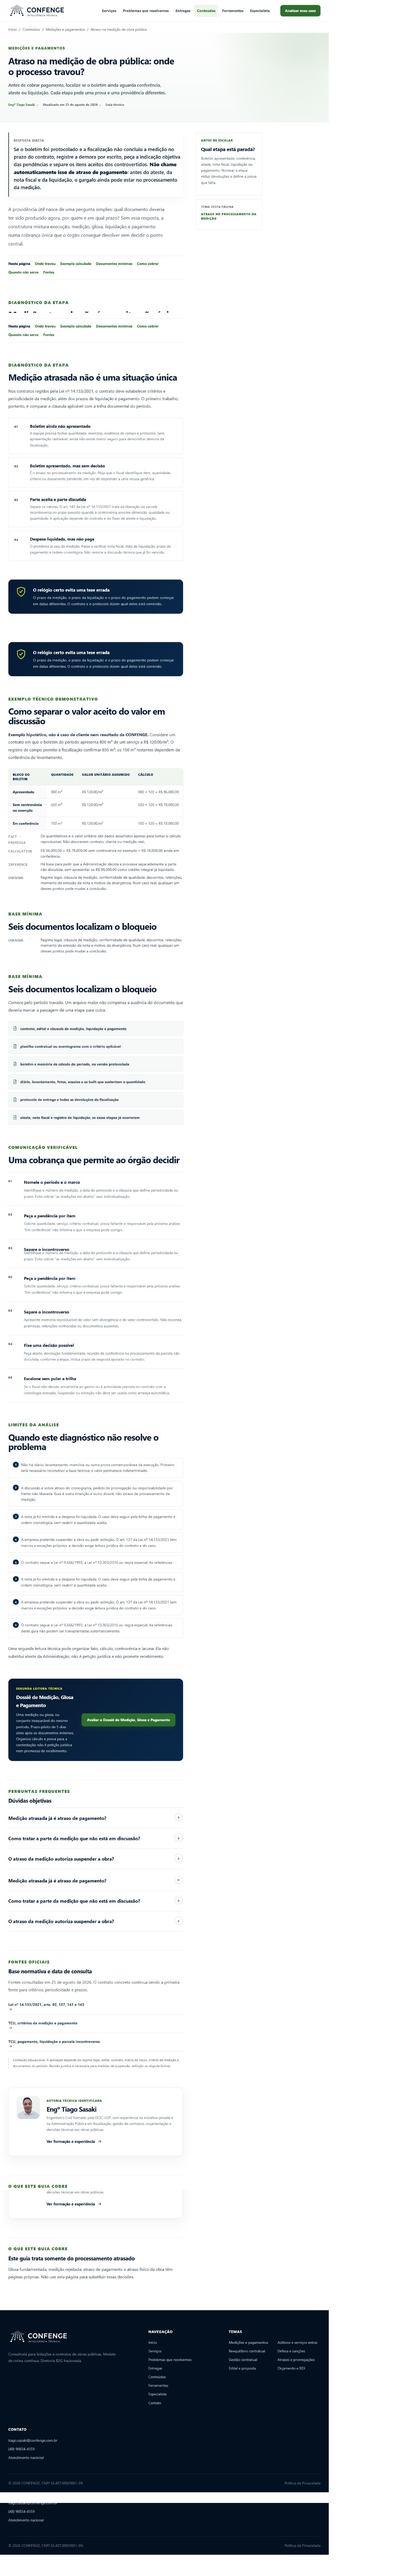
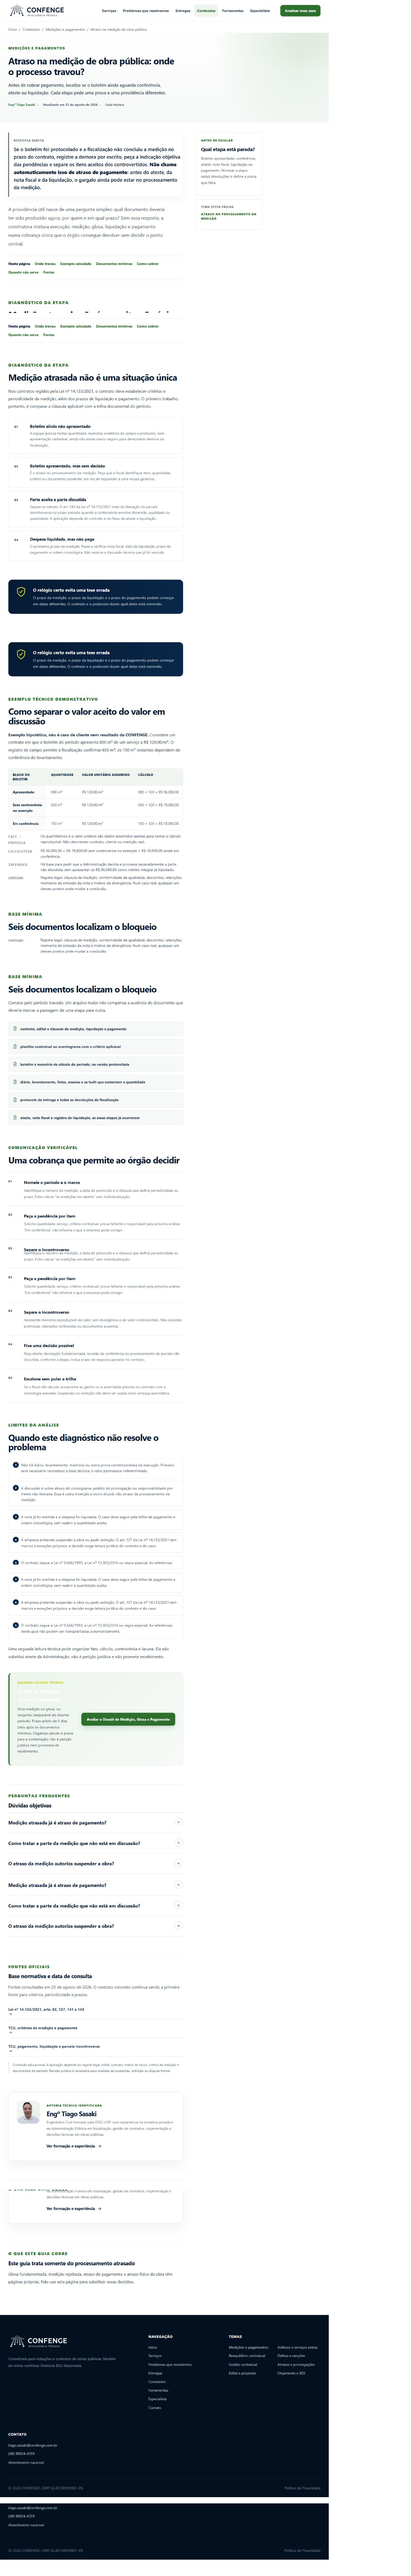
fix(organic): preservar ponte comercial do canário

diff --git a/conteudos/atraso-na-medicao-obra-publica/index.html b/conteudos/atraso-na-medicao-obra-publica/index.html
@@ -116,7 +116,7 @@
 <li>O contrato segue a Lei nº 8.666/1993, a Lei nº 13.303/2016 ou regra especial. As referências deste guia não podem ser transplantadas automaticamente.</li>
 </ul><p>Uma segunda leitura técnica pode organizar fato, cálculo, controvérsia e lacuna. Ela não substitui ateste da Administração, não é petição jurídica e não promete recebimento.</p></section>
 
-<section class="lead-inline" id="diagnostico-confenge" aria-label="Próximo passo para medição ou glosa" data-journey="contrato" data-commercial-route="medicoes-glosas"><div class="lead-inline-copy"><span>Segunda leitura técnica</span><strong>Dossiê de Medição, Glosa e Pagamento</strong><p>Uma medição ou glosa, ou conjunto inseparável do mesmo período. Prazo-piloto de 5 dias úteis após os documentos mínimos. Organiza cálculo e prova para a contestação; não é petição jurídica nem promessa de recebimento.</p></div><div class="lead-inline-actions"><a class="button button-primary" data-asset-family="editorial" data-asset-id="atraso-na-medicao-obra-publica" data-cta-id="canary-medicao-dossie" data-cta-position="inline" data-journey="contrato" data-route-family="medicoes-glosas" href="/medicoes-glosas-obras-publicas/">Avaliar o Dossiê de Medição, Glosa e Pagamento</a></div></section>
+<aside class="lead-inline commercial-bridge" id="diagnostico-confenge" aria-label="Próximo passo para medição ou glosa" data-commercial-bridge="1" data-cluster="medicoes-pagamentos" data-bridge-mode="soft" data-journey="contrato" data-commercial-route="medicoes-glosas"><div class="lead-inline-copy"><span>Segunda leitura técnica</span><strong>Dossiê de Medição, Glosa e Pagamento</strong><p>Uma medição ou glosa, ou conjunto inseparável do mesmo período. Prazo-piloto de 5 dias úteis após os documentos mínimos. Organiza cálculo e prova para a contestação; não é petição jurídica nem promessa de recebimento.</p></div><div class="lead-inline-actions"><a class="button button-primary" data-asset-family="editorial" data-asset-id="atraso-na-medicao-obra-publica" data-cta-id="canary-medicao-dossie" data-cta-position="inline" data-journey="contrato" data-route-family="medicoes-glosas" href="/medicoes-glosas-obras-publicas/">Avaliar o Dossiê de Medição, Glosa e Pagamento</a></div></aside>
 
 <section class="article-faq"><p class="eyebrow">Perguntas frequentes</p><h2>Dúvidas objetivas</h2><div class="faq-list">
 <details><summary>Medição atrasada já é atraso de pagamento?</summary><p>Não necessariamente. Primeiro identifique se o boletim ainda aguarda análise ou ateste, se a despesa já foi liquidada ou se uma nota fiscal emitida aguarda pagamento. Cada etapa tem documento, responsável e prazo próprios.</p></details>

diff --git a/scripts/site/test_inbound_gates.py b/scripts/site/test_inbound_gates.py
@@ -110,9 +110,36 @@ def test_measurement_delay_canary_389_is_single_url_and_fail_closed():
     assert "wa.me" not in article_html
     assert "#formulario-contato" not in article_html
 
+    terminal = contract["terminal_action_contract"]
+    bridge = re.search(
+        r'<aside\b(?=[^>]*class="[^"]*\bcommercial-bridge\b[^"]*")'
+        r'(?P<attrs>[^>]*)>.*?</aside>',
+        article_html,
+        re.I | re.S,
+    )
+    assert bridge
+    assert len(re.findall(r'<aside\b[^>]*\bcommercial-bridge\b', article_html, re.I)) == 1
+    bridge_attrs = dict(
+        re.findall(
+            r'([\w-]+)="([^\"]*)"',
+            bridge.group("attrs"),
+        )
+    )
+    expected_bridge = terminal["bridge_attributes"]
+    assert terminal["html_element"] == "aside"
+    assert expected_bridge == {
+        "class_token": "commercial-bridge",
+        "data-commercial-bridge": "1",
+        "data-cluster": "medicoes-pagamentos",
+        "data-bridge-mode": "soft",
+    }
+    assert expected_bridge["class_token"] in bridge_attrs["class"].split()
+    for attr in ("data-commercial-bridge", "data-cluster", "data-bridge-mode"):
+        assert bridge_attrs.get(attr) == expected_bridge[attr]
+
     cta = re.search(
         r'<a\b(?P<before>[^>]*)href="/medicoes-glosas-obras-publicas/"(?P<after>[^>]*)>',
-        article_html,
+        bridge.group(0),
     )
     assert cta
     cta_attrs = dict(
@@ -137,7 +164,6 @@ def test_measurement_delay_canary_389_is_single_url_and_fail_closed():
         "data-journey": "contrato",
     }
 
-    terminal = contract["terminal_action_contract"]
     assert terminal["match"] == [canary["path"]]
     assert terminal["destination"] == "/medicoes-glosas-obras-publicas/"
     family = next(f for f in registry["families"] if f["id"] == terminal["family"])

diff --git a/docs/evidence/389-measurement-glosa-canary/REPORT.md b/docs/evidence/389-measurement-glosa-canary/REPORT.md
@@ -49,6 +49,8 @@ em `canary-contract.json` e impede transformar ausência em evidência.
 - autoria técnica continua ligada ao perfil verificável;
 - o artigo possui uma única ponte comercial contextual, para
   `/medicoes-glosas-obras-publicas/`, sem WhatsApp direto ou promessa.
+- essa mesma ponte única também declara o contrato orgânico `commercial-bridge`
+  em modo `soft` e cluster `medicoes-pagamentos`; não existe uma segunda CTA.
 - a ponte é declarada como `service_transition` apenas para a rota do canário,
   owner #389; a regra ampla da família `/conteudos/` não foi relaxada.
 - a rota representa sua própria família no Lighthouse, sem isenção de SEO; os
